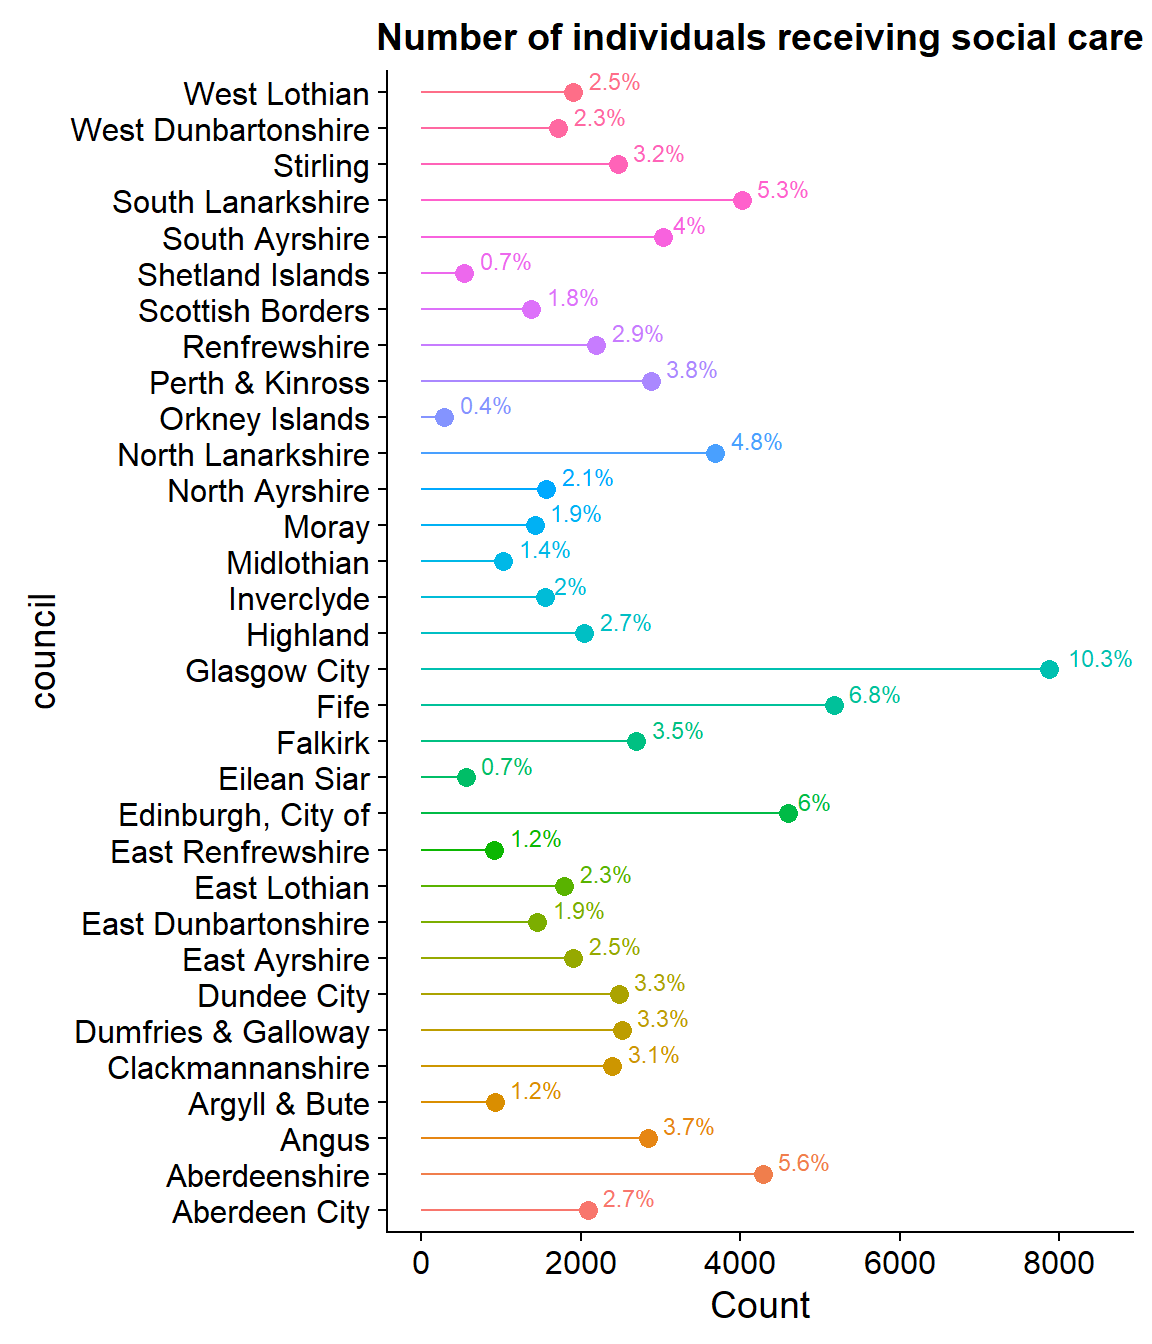
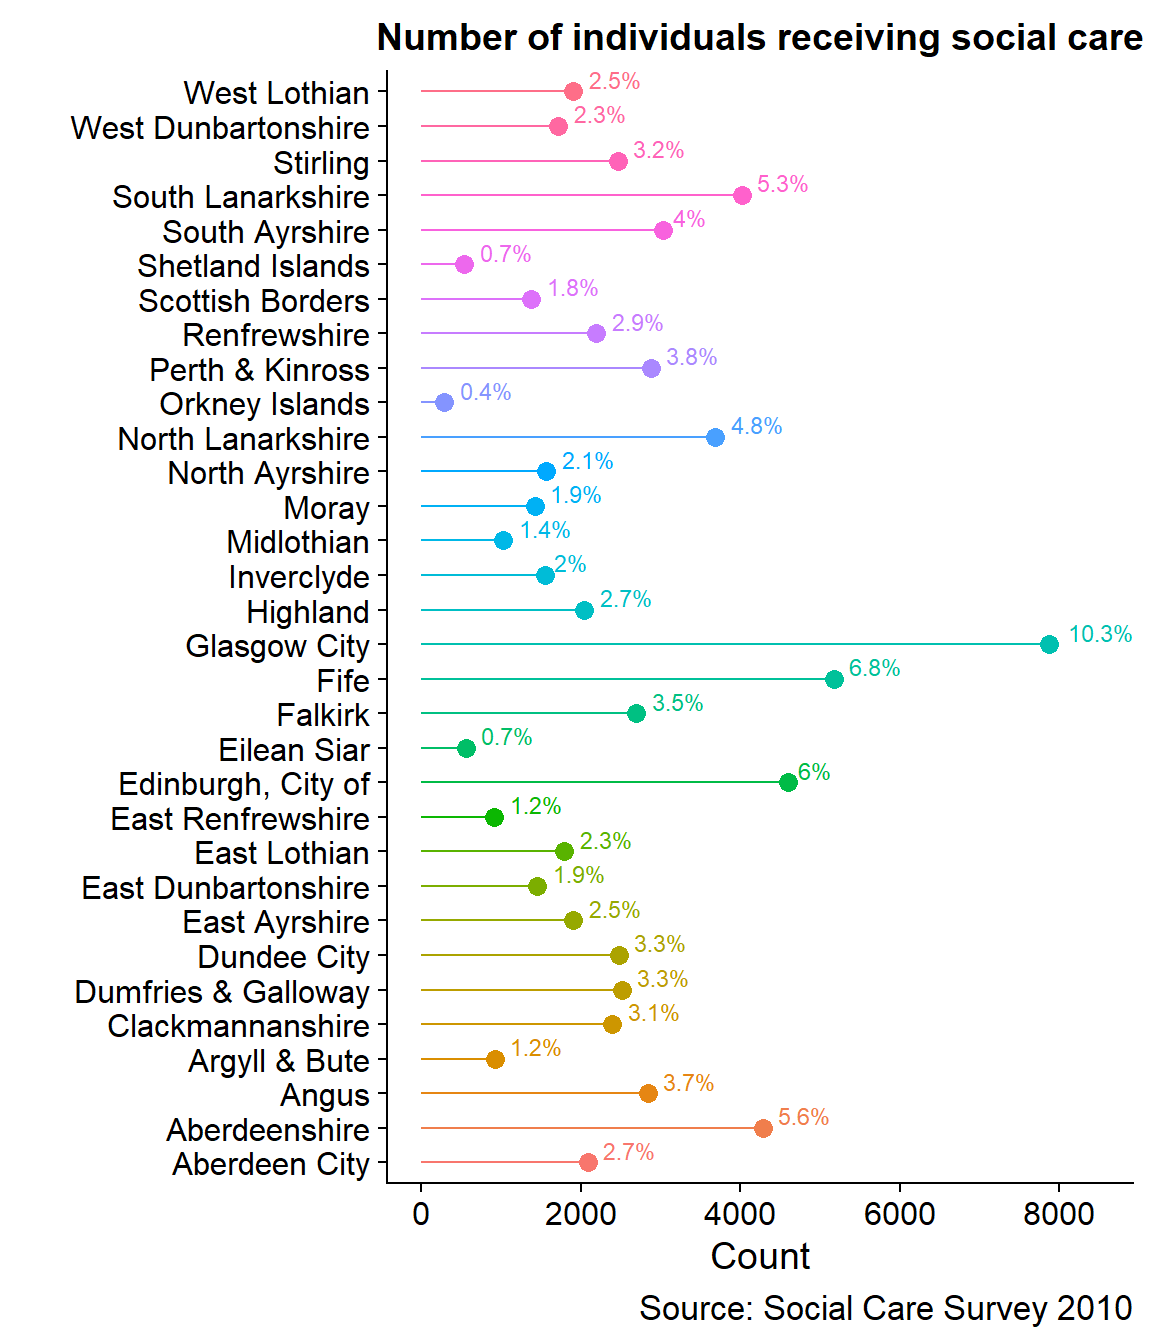
Build site.

diff --git a/docs/02_2010_eda.html b/docs/02_2010_eda.html
@@ -350,10 +350,10 @@ div.section {
 shared across the workflowr files. -->
 <!-- Update knitr chunk options -->
 <!-- Insert the date the file was last updated -->
-<p><strong>Last updated:</strong> 2018-02-06</p>
+<p><strong>Last updated:</strong> 2018-02-07</p>
 <!-- Insert the code version (Git commit SHA1) if Git repository exists and R
  package git2r is installed -->
-<p><strong>Code version:</strong> fb9c972</p>
+<p><strong>Code version:</strong> d337a97</p>
 <!-- Add your analysis here -->
 <div id="introduction" class="section level1">
 <h1>Introduction</h1>
@@ -612,7 +612,9 @@ source(&quot;/GitHub/Scottish_Social_Care_Open_Data/code/x_45.R&quot;)</code></p
 <h3>Local Authority</h3>
 <pre class="r"><code>factor_plot(soc_care10, council) +
   coord_flip() +
-  expand_limits(y = 8500)</code></pre>
+  expand_limits(y = 8500) +
+  labs(x = &quot;&quot;,
+       caption = &quot;Source: Social Care Survey 2010&quot;)</code></pre>
 <p><img src="figure/02_2010_eda.Rmd/viz_la-1.png" width="576" style="display: block; margin: auto;" /></p>
 <p>This plot could really do with ordering if going to be used for anything specific. As it is I don’t need to just now. Glasgow City accounts for 10.3% of all social care!</p>
 </div>
@@ -629,7 +631,7 @@ source(&quot;/GitHub/Scottish_Social_Care_Open_Data/code/x_45.R&quot;)</code></p
  language (EN)                        
  collate  English_United Kingdom.1252 
  tz       Europe/London               
- date     2018-02-06                  </code></pre>
+ date     2018-02-07                  </code></pre>
 <pre><code>Packages -----------------------------------------------------------------</code></pre>
 <pre><code> package      * version date       source        
  ash            1.0-15  2015-09-01 CRAN (R 3.4.1)
